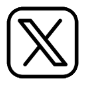
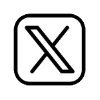
fix: update twitter

diff --git a/src/pages/user/profile/edit.tsx b/src/pages/user/profile/edit.tsx
@@ -334,12 +334,12 @@ export default function Profile() {
                 <div className="icon">
                   <img src={TwitterImg} alt="" />
                 </div>
-                {t('My.Twitter')}
+            X
               </div>
               <InputBox>
                 <Form.Control
                   type="text"
-                  placeholder="https://twitter.com/..."
+                  placeholder="https://x.com/..."
                   value={twitter}
                   onChange={(e) => handleInput(e, 'twitter')}
                 />
